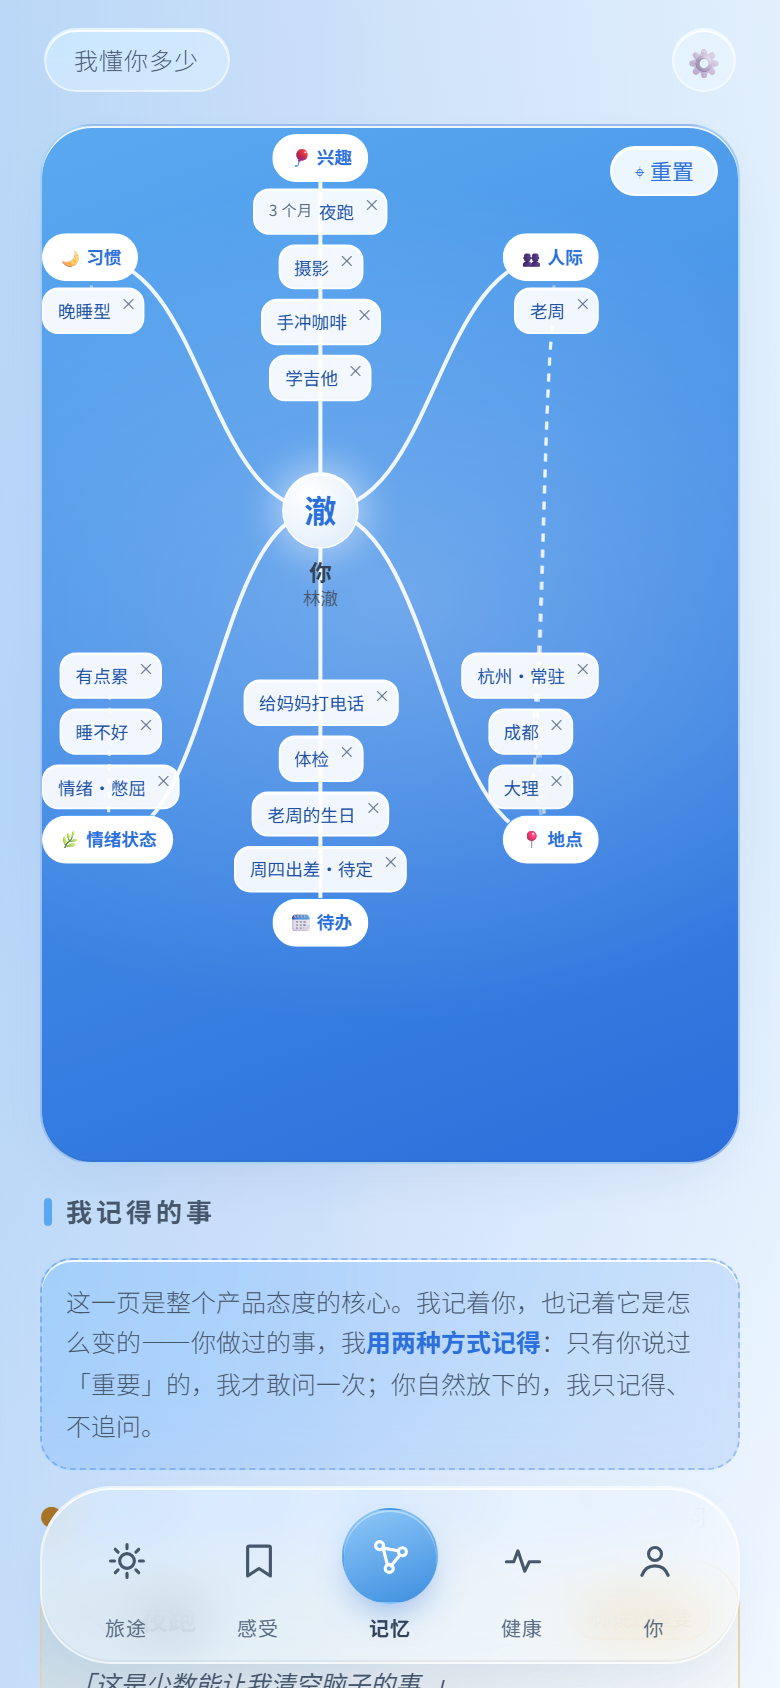
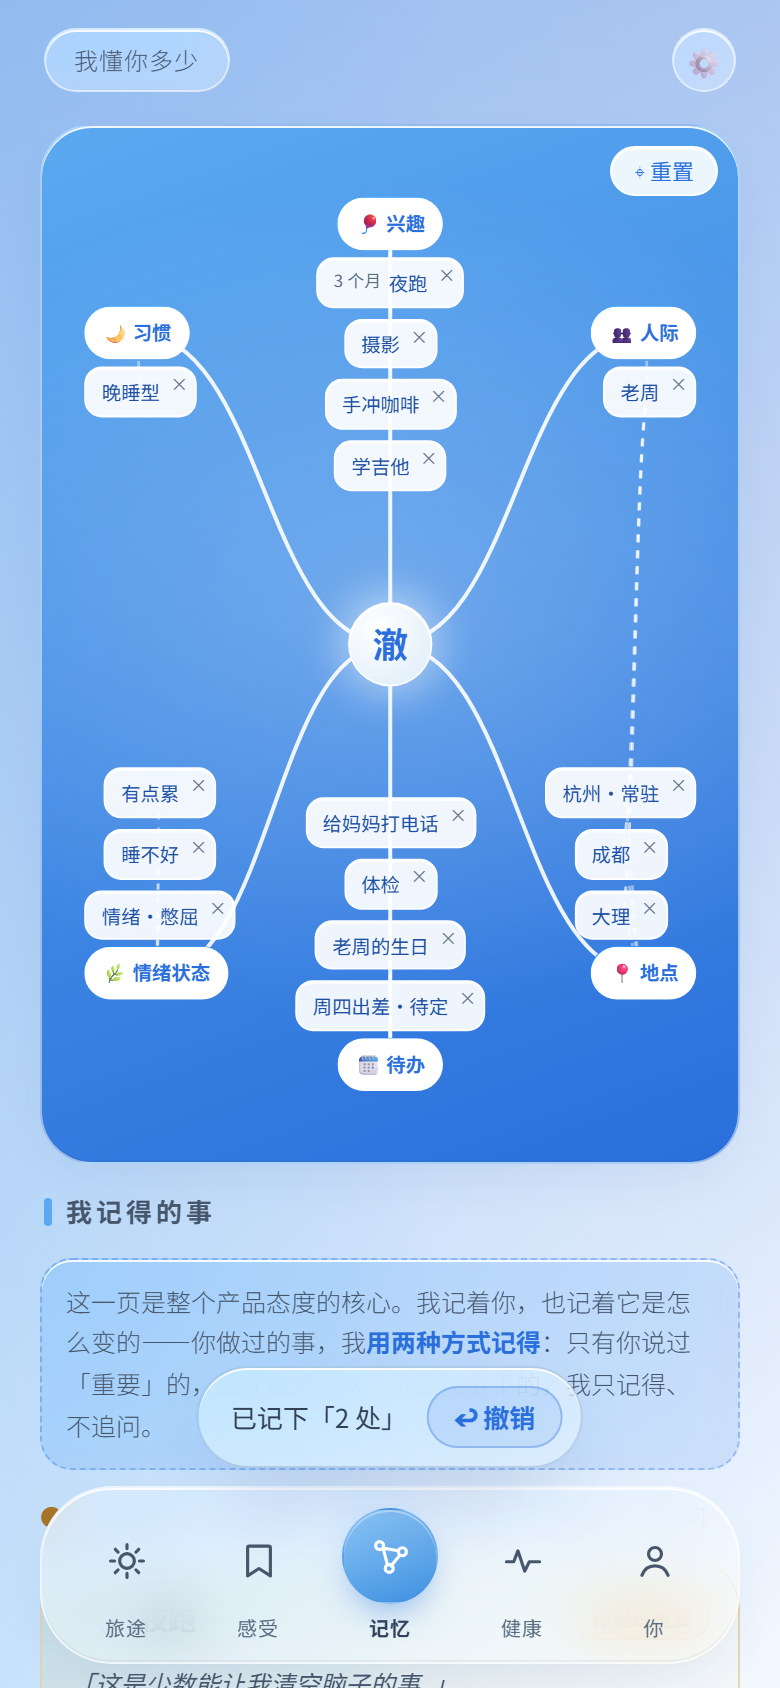
feat: 删导图中心文字 + 第一批 J 图标

diff --git a/prototype/index.html b/prototype/index.html
@@ -2159,6 +2159,10 @@
   .plus-txt{display:flex;flex-direction:column;line-height:1.3;}
   .plus-txt b{font-weight:500;}
   .plus-txt i{font-style:normal;font-size:10.5px;color:var(--text-faint);}
+  /* v109 · 内联图标（Phosphor Duotone, MIT） */
+  .ic-ico{display:inline-block;vertical-align:-0.16em;width:1em;height:1em;fill:currentColor;flex:none;}
+  .c-blue{color:#2A6FDB;} .c-sage{color:#3E8B63;} .c-amber{color:#BE8636;} .c-ink{color:var(--text-dim);}
+
   /* ==========================================================================
      v105 · 空闲态的输入框要看得出来是个可以点的地方
      原来浅色 .42 白底 + 白描边，贴在浅蓝背景上几乎隐形。
@@ -2691,7 +2695,7 @@
 
 
       <div class="demo-row" data-page-node-id="LQcwQyt3rwFp5x0qEIdFd4">
-        <button type="button" class="demo-quake" onclick="proactiveCare()" data-page-node-id="zExi2FC6QWyjCUshgwfeV7">🌅 今日简报</button>
+        <button type="button" class="demo-quake" onclick="proactiveCare()" data-page-node-id="zExi2FC6QWyjCUshgwfeV7"><svg class="ic-ico c-blue" viewBox="0 0 256 256" aria-hidden="true"><path d="M184,128a56,56,0,1,1-56-56A56,56,0,0,1,184,128Z" opacity="0.2"/><path d="M120,40V16a8,8,0,0,1,16,0V40a8,8,0,0,1-16,0Zm72,88a64,64,0,1,1-64-64A64.07,64.07,0,0,1,192,128Zm-16,0a48,48,0,1,0-48,48A48.05,48.05,0,0,0,176,128ZM58.34,69.66A8,8,0,0,0,69.66,58.34l-16-16A8,8,0,0,0,42.34,53.66Zm0,116.68-16,16a8,8,0,0,0,11.32,11.32l16-16a8,8,0,0,0-11.32-11.32ZM192,72a8,8,0,0,0,5.66-2.34l16-16a8,8,0,0,0-11.32-11.32l-16,16A8,8,0,0,0,192,72Zm5.66,114.34a8,8,0,0,0-11.32,11.32l16,16a8,8,0,0,0,11.32-11.32ZM48,128a8,8,0,0,0-8-8H16a8,8,0,0,0,0,16H40A8,8,0,0,0,48,128Zm80,80a8,8,0,0,0-8,8v24a8,8,0,0,0,16,0V216A8,8,0,0,0,128,208Zm112-88H216a8,8,0,0,0,0,16h24a8,8,0,0,0,0-16Z"/></svg> 今日简报</button>
         <button type="button" class="demo-quake" onclick="demoQuake()" data-page-node-id="WsgGvSq7pXZ1e52MYFPn3C">⚠ 模拟地震预警推送</button>
       </div>
 
@@ -2834,7 +2838,6 @@
           <svg class="mm-links" id="mmLinks" aria-hidden="true" data-page-node-id="jN5P5Oeg3Zpe4FXXEKa14l"></svg>
           <div class="mm-root" data-page-node-id="deMqlpxRJMGPlYGBIiaG03">
             <span class="mm-root-ico" id="mmAvatar" data-page-node-id="rQ8zWn3qNz5cmExlGBMZSc">澈</span>
-            <div class="mm-root-txt" data-page-node-id="MmY6Ycc4EA1eXZcfhGVgnN"><b data-page-node-id="Afq0kGq2xGEBu2iFVXI65l">你</b><span data-page-node-id="agyWH5xEoMS0DwW7fNwEBO">林澈</span></div>
           </div>
           <div class="mm-branches" data-page-node-id="KI1w5Fs9yBtLKIo8fNiIdt">
           <div class="mm-branch" data-cat="interest" data-page-node-id="bEB7iYluV5NgtECyXgWOiz">
@@ -4774,13 +4777,13 @@
 
   /* ---- 天气预报查询（出天气卡片无地震区 + 记住待定事） ---- */
   var FORECAST = [
-    {day:'周一', icon:'☀', temp:'24°', desc:'晴', hum:'45%', wind:'微风 2 级'},
-    {day:'周二', icon:'⛅', temp:'23°', desc:'多云', hum:'55%', wind:'东北风 2 级'},
-    {day:'周三', icon:'🌦', temp:'20°', desc:'小雨', hum:'82%', wind:'东风 3 级'},
-    {day:'周四', icon:'🌧', temp:'18°', desc:'中雨', hum:'88%', wind:'东风 4 级'},
-    {day:'周五', icon:'⛅', temp:'22°', desc:'多云', hum:'60%', wind:'东南风 2 级'},
-    {day:'周六', icon:'☀', temp:'25°', desc:'晴', hum:'48%', wind:'微风 2 级'},
-    {day:'周日', icon:'🌩', temp:'17°', desc:'雷阵雨', hum:'90%', wind:'南风 4 级'}
+    {day:'周一', icon:'sun', temp:'24°', desc:'晴', hum:'45%', wind:'微风 2 级'},
+    {day:'周二', icon:'partlycloudy', temp:'23°', desc:'多云', hum:'55%', wind:'东北风 2 级'},
+    {day:'周三', icon:'drizzle', temp:'20°', desc:'小雨', hum:'82%', wind:'东风 3 级'},
+    {day:'周四', icon:'rain', temp:'18°', desc:'中雨', hum:'88%', wind:'东风 4 级'},
+    {day:'周五', icon:'partlycloudy', temp:'22°', desc:'多云', hum:'60%', wind:'东南风 2 级'},
+    {day:'周六', icon:'sun', temp:'25°', desc:'晴', hum:'48%', wind:'微风 2 级'},
+    {day:'周日', icon:'thunder', temp:'17°', desc:'雷阵雨', hum:'90%', wind:'南风 4 级'}
   ];
   function extractDay(v){
     var m = v.match(/星期([一二三四五六日天])|周([一二三四五六日天])|礼拜([一二三四五六日天])/);
@@ -4820,7 +4823,7 @@
     var el = document.createElement('div');
     el.className = 'wx-card';
     el.innerHTML =
-      '<div class="wx-head"><span class="wx-icon">' + f.icon + '</span>' +
+      '<div class="wx-head">' + Icons.svg(f.icon, 'c-blue', 18) +
       '<div class="wx-info"><span class="wx-day">' + day + ' · 预报</span>' +
       '<span class="wx-desc">' + f.desc + '</span></div>' +
       '<span class="wx-temp">' + f.temp + '</span></div>' +
@@ -5348,7 +5351,7 @@
       greeting = hello + '今天看起来是安静的一天，我都在。';
     }
 
-    var html = '<div class="pro-head">🌅 今日简报</div><div class="pro-body">' + greeting + '</div>';
+    var html = '<div class="pro-head">' + Icons.svg('sun','c-blue') + ' 今日简报</div><div class="pro-body">' + greeting + '</div>';
 
     if(todos.length > 0){
       var show = todos.slice(0, 5);
@@ -5370,7 +5373,7 @@
       var care = tired
         ? '你最近有点累，今晚早点睡。别的都可以先放一放。'
         : '你最近在「身体的信号」里留了一些状态，我看见了，不催你。';
-      html += '<div class="brief-sec"><div class="brief-sec-t">🌿 关怀</div><div class="brief-item">' + care + '</div></div>';
+      html += '<div class="brief-sec"><div class="brief-sec-t">' + Icons.svg('briefCare','c-sage') + ' 关怀</div><div class="brief-item">' + care + '</div></div>';
     }
 
     /* v88：感恩练习——每天一件小事 */
@@ -6182,7 +6185,7 @@
           }
         }
         if(card && card.innerHTML){
-          store.messages.push({ id:uid(), who:'me', kind:'brief', html:card.innerHTML, text:'🌅 今日简报', at:Date.now() });
+          store.messages.push({ id:uid(), who:'me', kind:'brief', html:card.innerHTML, text:'今日简报', at:Date.now() });
           write('messages', store.messages);
         }
         justPushedBrief = true;
@@ -6815,7 +6818,9 @@
       var slot = root.querySelector('#gratSlot');
       var host = slot || root;
       var sec = el('div', 'brief-sec grat-sec');
-      sec.appendChild(el('div', 'brief-sec-t', '🌱 感激'));
+      var _ft = el('div', 'brief-sec-t');
+      _ft.innerHTML = Icons.svg('briefThanks','c-sage') + ' 感激';
+      sec.appendChild(_ft);
       sec.appendChild(el('div', 'brief-item', '今天有什么小事，值得你道一声谢？'));
 
       var row = el('div', 'grat-row');
@@ -7284,7 +7289,7 @@
       var text = weeklyText();
       if(!text){ return; }
       var p = PERSONAS[persona()];
-      pushArchiveCard('✉ 这一周 · 由「' + p.name + '」写给你', text, '周日晚上，我把它留在你这里。');
+      pushArchiveCard(Icons.svg('envelope','c-blue') + ' 这一周 · 由「' + p.name + '」写给你', text, '周日晚上，我把它留在你这里。');
       writeJSON(WEEKLY_KEY, { key: key, at: Date.now() });
     }
 
@@ -7356,7 +7361,7 @@
       var mark = readJSON('la.silenceShown', { at: 0 });
       if(now - (mark.at || 0) < 5 * 86400000) return;
       pushArchiveCard(
-        '🌙 缺席也记着',
+        Icons.svg('moon','c-blue') + ' 缺席也记着',
         '这 ' + gapDays + ' 天你来得少。我不问，也不催——但这段安静，我也记在档案里了。',
         '像人，不像打卡器。',
         'silence'
@@ -7508,7 +7513,9 @@
         var item = el('div', 'todo');
         item.setAttribute('data-id', t.id);
         item.style.animation = 'fade .3s ease';
-        item.appendChild(el('span', 'ico', t.ico || '🗓'));
+        var icoEl = el('span', 'ico');
+        icoEl.innerHTML = (window.Icons && Icons.has(t.ico)) ? Icons.svg(t.ico) : (t.ico || '');
+        item.appendChild(icoEl);
         var wrap = el('div', 't');
         wrap.appendChild(el('div', 'nm', t.nm || ''));
         wrap.appendChild(el('div', 'st', t.st || '你刚告诉我的'));
@@ -7525,7 +7532,7 @@
       var list = read();
       list.push({
         id: uid(),
-        ico: (opts && opts.ico) || '🗓',
+        ico: (opts && opts.ico) || 'briefTodo',
         nm: String(text),
         st: (opts && opts.st) || '你刚告诉我的',
         at: Date.now()
@@ -7899,7 +7906,7 @@
     }
     function sendToChat(){
       if(!clip) return;
-      var text = '🎤 语音 ' + fmt2(clip.ms);
+      var text = Icons.svg('microphone','c-sage') + ' 语音 ' + fmt2(clip.ms);
       if(typeof window.appendMsg === 'function'){ window.appendMsg('user', text); }
       else if(typeof appendMsg === 'function'){ appendMsg('user', text); }
       if(typeof window.sendChat === 'function' && window.__vnOnSend){ /* 由外部决定 */ }
@@ -8071,6 +8078,47 @@
     window.addEventListener('resize', function(){ setTimeout(run, 80); });
     if(document.readyState === 'loading'){ document.addEventListener('DOMContentLoaded', function(){ setTimeout(run, 200); }); }
     else { setTimeout(run, 200); }
+  })();
+
+  /* ==========================================================================
+     v109 · Icons：Phosphor Duotone（MIT）内联图标
+     去 emoji 后用这套。用户拍板的方案 J：按内容分色——
+       c-blue  #2A6FDB  天气 / 信 / 通话
+       c-sage  #3E8B63  身体 / 语音
+       c-amber #BE8636  生日 / 纪念
+     尺寸用 em，随字号缩放，替换 emoji 时布局零跳动。
+     ========================================================================== */
+  (function(){
+    var RAW = {
+    sun: { vb: '0 0 256 256', body: '<path d="M184,128a56,56,0,1,1-56-56A56,56,0,0,1,184,128Z" opacity="0.2"/><path d="M120,40V16a8,8,0,0,1,16,0V40a8,8,0,0,1-16,0Zm72,88a64,64,0,1,1-64-64A64.07,64.07,0,0,1,192,128Zm-16,0a48,48,0,1,0-48,48A48.05,48.05,0,0,0,176,128ZM58.34,69.66A8,8,0,0,0,69.66,58.34l-16-16A8,8,0,0,0,42.34,53.66Zm0,116.68-16,16a8,8,0,0,0,11.32,11.32l16-16a8,8,0,0,0-11.32-11.32ZM192,72a8,8,0,0,0,5.66-2.34l16-16a8,8,0,0,0-11.32-11.32l-16,16A8,8,0,0,0,192,72Zm5.66,114.34a8,8,0,0,0-11.32,11.32l16,16a8,8,0,0,0,11.32-11.32ZM48,128a8,8,0,0,0-8-8H16a8,8,0,0,0,0,16H40A8,8,0,0,0,48,128Zm80,80a8,8,0,0,0-8,8v24a8,8,0,0,0,16,0V216A8,8,0,0,0,128,208Zm112-88H216a8,8,0,0,0,0,16h24a8,8,0,0,0,0-16Z"/>' },
+    partlycloudy: { vb: '0 0 256 256', body: '<path d="M139.84,84.41v0a68.22,68.22,0,0,0-41.65,46v-.11a44.08,44.08,0,0,0-38.54,5h0a48,48,0,1,1,80.19-50.94Z" opacity="0.2"/><path d="M164,72a76.2,76.2,0,0,0-20.26,2.73,55.63,55.63,0,0,0-9.41-11.54l9.51-13.57a8,8,0,1,0-13.11-9.18L121.22,54A55.9,55.9,0,0,0,96,48c-.58,0-1.16,0-1.74,0L91.37,31.71a8,8,0,1,0-15.75,2.77L78.5,50.82A56.1,56.1,0,0,0,55.23,65.67L41.61,56.14a8,8,0,1,0-9.17,13.11L46,78.77A55.55,55.55,0,0,0,40,104c0,.57,0,1.15,0,1.72L23.71,108.6a8,8,0,0,0,1.38,15.88,8.24,8.24,0,0,0,1.39-.12l16.32-2.88a55.74,55.74,0,0,0,5.86,12.42A52,52,0,0,0,84,224h80a76,76,0,0,0,0-152ZM56,104a40,40,0,0,1,72.54-23.24,76.26,76.26,0,0,0-35.62,40,52.14,52.14,0,0,0-31,4.17A40,40,0,0,1,56,104ZM164,208H84a36,36,0,1,1,4.78-71.69c-.37,2.37-.63,4.79-.77,7.23a8,8,0,0,0,16,.92,58.91,58.91,0,0,1,1.88-11.81c0-.16.09-.32.12-.48A60.06,60.06,0,1,1,164,208Z"/>' },
+    overcast: { vb: '0 0 256 256', body: '<path d="M240,128a80,80,0,0,1-80,80H72A56,56,0,1,1,85.92,97.74l0,.1A80,80,0,0,1,240,128Z" opacity="0.2"/><path d="M160,40A88.09,88.09,0,0,0,81.29,88.67,64,64,0,1,0,72,216h88a88,88,0,0,0,0-176Zm0,160H72a48,48,0,0,1,0-96c1.1,0,2.2,0,3.29.11A88,88,0,0,0,72,128a8,8,0,0,0,16,0,72,72,0,1,1,72,72Z"/>' },
+    drizzle: { vb: '0 0 256 256', body: '<path d="M224,92a68,68,0,0,1-68,68H76A44,44,0,1,1,90.2,74.34v.11A68.06,68.06,0,0,1,224,92Z" opacity="0.2"/><path d="M158.66,196.44l-32,48a8,8,0,1,1-13.32-8.88l32-48a8,8,0,0,1,13.32,8.88ZM232,92a76.08,76.08,0,0,1-76,76H132.28l-29.62,44.44a8,8,0,1,1-13.32-8.88L113.05,168H76A52,52,0,0,1,76,64a53.26,53.26,0,0,1,8.92.76A76.08,76.08,0,0,1,232,92Zm-16,0A60.06,60.06,0,0,0,96,88.46a8,8,0,0,1-16-.92q.21-3.66.77-7.23A38.11,38.11,0,0,0,76,80a36,36,0,0,0,0,72h80A60.07,60.07,0,0,0,216,92Z"/>' },
+    rain: { vb: '0 0 256 256', body: '<path d="M224,92a68,68,0,0,1-68,68H76A44,44,0,1,1,90.2,74.34v.11A68.06,68.06,0,0,1,224,92Z" opacity="0.2"/><path d="M158.66,196.44l-32,48a8,8,0,1,1-13.32-8.88l32-48a8,8,0,0,1,13.32,8.88ZM232,92a76.08,76.08,0,0,1-76,76H132.28l-29.62,44.44a8,8,0,1,1-13.32-8.88L113.05,168H76A52,52,0,0,1,76,64a53.26,53.26,0,0,1,8.92.76A76.08,76.08,0,0,1,232,92Zm-16,0A60.06,60.06,0,0,0,96,88.46a8,8,0,0,1-16-.92q.21-3.66.77-7.23A38.11,38.11,0,0,0,76,80a36,36,0,0,0,0,72h80A60.07,60.07,0,0,0,216,92Z"/>' },
+    storm: { vb: '0 0 256 256', body: '<path d="M224,92a68,68,0,0,1-68,68H76A44,44,0,1,1,90.2,74.34v.11A68.06,68.06,0,0,1,224,92Z" opacity="0.2"/><path d="M156,16A76.2,76.2,0,0,0,84.92,64.76,53.26,53.26,0,0,0,76,64a52,52,0,0,0,0,104h37.87L97.14,195.88A8,8,0,0,0,104,208h25.87l-16.73,27.88a8,8,0,0,0,13.72,8.24l24-40A8,8,0,0,0,144,192H118.13l14.4-24H156a76,76,0,0,0,0-152Zm0,136H76a36,36,0,0,1,0-72,38.11,38.11,0,0,1,4.78.31q-.56,3.57-.77,7.23a8,8,0,0,0,16,.92A60.06,60.06,0,1,1,156,152Z"/>' },
+    thunder: { vb: '0 0 256 256', body: '<path d="M224,92a68,68,0,0,1-68,68H76A44,44,0,1,1,90.2,74.34v.11A68.06,68.06,0,0,1,224,92Z" opacity="0.2"/><path d="M156,16A76.2,76.2,0,0,0,84.92,64.76,53.26,53.26,0,0,0,76,64a52,52,0,0,0,0,104h37.87L97.14,195.88A8,8,0,0,0,104,208h25.87l-16.73,27.88a8,8,0,0,0,13.72,8.24l24-40A8,8,0,0,0,144,192H118.13l14.4-24H156a76,76,0,0,0,0-152Zm0,136H76a36,36,0,0,1,0-72,38.11,38.11,0,0,1,4.78.31q-.56,3.57-.77,7.23a8,8,0,0,0,16,.92A60.06,60.06,0,1,1,156,152Z"/>' },
+    snow: { vb: '0 0 256 256', body: '<path d="M224,92a68,68,0,0,1-68,68H76A44,44,0,1,1,90.2,74.34v.11A68.06,68.06,0,0,1,224,92Z" opacity="0.2"/><path d="M88,196a12,12,0,1,1-12-12A12,12,0,0,1,88,196Zm28,4a12,12,0,1,0,12,12A12,12,0,0,0,116,200Zm48-16a12,12,0,1,0,12,12A12,12,0,0,0,164,184ZM68,224a12,12,0,1,0,12,12A12,12,0,0,0,68,224Zm88,0a12,12,0,1,0,12,12A12,12,0,0,0,156,224ZM232,92a76.08,76.08,0,0,1-76,76H76A52,52,0,0,1,76,64a53.26,53.26,0,0,1,8.92.76A76.08,76.08,0,0,1,232,92Zm-16,0A60.06,60.06,0,0,0,96,88.46a8,8,0,0,1-16-.92q.21-3.66.77-7.23A38.11,38.11,0,0,0,76,80a36,36,0,0,0,0,72h80A60.07,60.07,0,0,0,216,92Z"/>' },
+    heavysnow: { vb: '0 0 256 256', body: '<path d="M220,128a92,92,0,1,1-92-92A92.1,92.1,0,0,1,220,128Z" opacity="0.2"/><path d="M223.77,150.09a8,8,0,0,1-5.86,9.68l-24.64,6,6.46,24.11a8,8,0,0,1-5.66,9.8A8.25,8.25,0,0,1,192,200a8,8,0,0,1-7.72-5.93l-7.72-28.8L136,141.86v46.83l21.66,21.65a8,8,0,0,1-11.32,11.32L128,203.31l-18.34,18.35a8,8,0,0,1-11.32-11.32L120,188.69V141.86L79.45,165.27l-7.72,28.8A8,8,0,0,1,64,200a8.25,8.25,0,0,1-2.08-.27,8,8,0,0,1-5.66-9.8l6.46-24.11-24.64-6a8,8,0,0,1,3.82-15.54l29.45,7.23L112,128,71.36,104.54l-29.45,7.23A7.85,7.85,0,0,1,40,112a8,8,0,0,1-1.91-15.77l24.64-6L56.27,66.07a8,8,0,0,1,15.46-4.14l7.72,28.8L120,114.14V67.31L98.34,45.66a8,8,0,0,1,11.32-11.32L128,52.69l18.34-18.35a8,8,0,0,1,11.32,11.32L136,67.31v46.83l40.55-23.41,7.72-28.8a8,8,0,0,1,15.46,4.14l-6.46,24.11,24.64,6A8,8,0,0,1,216,112a7.85,7.85,0,0,1-1.91-.23l-29.45-7.23L144,128l40.64,23.46,29.45-7.23A8,8,0,0,1,223.77,150.09Z"/>' },
+    fog: { vb: '0 0 256 256', body: '<path d="M224,100a68,68,0,0,1-68,68H76A44,44,0,1,1,90.2,82.34v.11A68.06,68.06,0,0,1,224,100Z" opacity="0.2"/><path d="M120,208H72a8,8,0,0,1,0-16h48a8,8,0,0,1,0,16Zm64-16H160a8,8,0,0,0,0,16h24a8,8,0,0,0,0-16Zm-24,32H104a8,8,0,0,0,0,16h56a8,8,0,0,0,0-16Zm72-124a76.08,76.08,0,0,1-76,76H76A52,52,0,0,1,76,72a53.26,53.26,0,0,1,8.92.76A76.08,76.08,0,0,1,232,100Zm-16,0A60.06,60.06,0,0,0,96,96.46a8,8,0,0,1-16-.92q.21-3.66.77-7.23A38.11,38.11,0,0,0,76,88a36,36,0,0,0,0,72h80A60.07,60.07,0,0,0,216,100Z"/>' },
+    phone: { vb: '0 0 256 256', body: '<path d="M223.94,174.08A48.33,48.33,0,0,1,176,216,136,136,0,0,1,40,80,48.33,48.33,0,0,1,81.92,32.06a8,8,0,0,1,8.3,4.8l21.13,47.2a8,8,0,0,1-.66,7.53L89.32,117a7.93,7.93,0,0,0-.54,7.81c8.27,16.93,25.77,34.22,42.75,42.41a7.92,7.92,0,0,0,7.83-.59l25-21.3a8,8,0,0,1,7.59-.69l47.16,21.13A8,8,0,0,1,223.94,174.08Z" opacity="0.2"/><path d="M222.37,158.46l-47.11-21.11-.13-.06a16,16,0,0,0-15.17,1.4,8.12,8.12,0,0,0-.75.56L134.87,160c-15.42-7.49-31.34-23.29-38.83-38.51l20.78-24.71c.2-.25.39-.5.57-.77a16,16,0,0,0,1.32-15.06l0-.12L97.54,33.64a16,16,0,0,0-16.62-9.52A56.26,56.26,0,0,0,32,80c0,79.4,64.6,144,144,144a56.26,56.26,0,0,0,55.88-48.92A16,16,0,0,0,222.37,158.46ZM176,208A128.14,128.14,0,0,1,48,80,40.2,40.2,0,0,1,82.87,40a.61.61,0,0,0,0,.12l21,47L83.2,111.86a6.13,6.13,0,0,0-.57.77,16,16,0,0,0-1,15.7c9.06,18.53,27.73,37.06,46.46,46.11a16,16,0,0,0,15.75-1.14,8.44,8.44,0,0,0,.74-.56L168.89,152l47,21.05h0s.08,0,.11,0A40.21,40.21,0,0,1,176,208Z"/>' },
+    checkup: { vb: '0 0 256 256', body: '<path d="M224,72V200a8,8,0,0,1-8,8H40a8,8,0,0,1-8-8V72a8,8,0,0,1,8-8H216A8,8,0,0,1,224,72Z" opacity="0.2"/><path d="M216,56H176V48a24,24,0,0,0-24-24H104A24,24,0,0,0,80,48v8H40A16,16,0,0,0,24,72V200a16,16,0,0,0,16,16H216a16,16,0,0,0,16-16V72A16,16,0,0,0,216,56ZM96,48a8,8,0,0,1,8-8h48a8,8,0,0,1,8,8v8H96ZM216,200H40V72H216V200Zm-56-64a8,8,0,0,1-8,8H136v16a8,8,0,0,1-16,0V144H104a8,8,0,0,1,0-16h16V112a8,8,0,0,1,16,0v16h16A8,8,0,0,1,160,136Z"/>' },
+    gift: { vb: '0 0 256 256', body: '<path d="M208,128v72a8,8,0,0,1-8,8H56a8,8,0,0,1-8-8V128Z" opacity="0.2"/><path d="M216,72H180.92c.39-.33.79-.65,1.17-1A29.53,29.53,0,0,0,192,49.57,32.62,32.62,0,0,0,158.44,16,29.53,29.53,0,0,0,137,25.91a54.94,54.94,0,0,0-9,14.48,54.94,54.94,0,0,0-9-14.48A29.53,29.53,0,0,0,97.56,16,32.62,32.62,0,0,0,64,49.57,29.53,29.53,0,0,0,73.91,71c.38.33.78.65,1.17,1H40A16,16,0,0,0,24,88v32a16,16,0,0,0,16,16v64a16,16,0,0,0,16,16H200a16,16,0,0,0,16-16V136a16,16,0,0,0,16-16V88A16,16,0,0,0,216,72ZM149,36.51a13.69,13.69,0,0,1,10-4.5h.49A16.62,16.62,0,0,1,176,49.08a13.69,13.69,0,0,1-4.5,10c-9.49,8.4-25.24,11.36-35,12.4C137.7,60.89,141,45.5,149,36.51Zm-64.09.36A16.63,16.63,0,0,1,96.59,32h.49a13.69,13.69,0,0,1,10,4.5c8.39,9.48,11.35,25.2,12.39,34.92-9.72-1-25.44-4-34.92-12.39a13.69,13.69,0,0,1-4.5-10A16.6,16.6,0,0,1,84.87,36.87ZM40,88h80v32H40Zm16,48h64v64H56Zm144,64H136V136h64Zm16-80H136V88h80v32Z"/>' },
+    briefTodo: { vb: '0 0 256 256', body: '<path d="M216,64V192H128V64Z" opacity="0.2"/><path d="M224,128a8,8,0,0,1-8,8H128a8,8,0,0,1,0-16h88A8,8,0,0,1,224,128ZM128,72h88a8,8,0,0,0,0-16H128a8,8,0,0,0,0,16Zm88,112H128a8,8,0,0,0,0,16h88a8,8,0,0,0,0-16ZM82.34,42.34,56,68.69,45.66,58.34A8,8,0,0,0,34.34,69.66l16,16a8,8,0,0,0,11.32,0l32-32A8,8,0,0,0,82.34,42.34Zm0,64L56,132.69,45.66,122.34a8,8,0,0,0-11.32,11.32l16,16a8,8,0,0,0,11.32,0l32-32a8,8,0,0,0-11.32-11.32Zm0,64L56,196.69,45.66,186.34a8,8,0,0,0-11.32,11.32l16,16a8,8,0,0,0,11.32,0l32-32a8,8,0,0,0-11.32-11.32Z"/>' },
+    briefCare: { vb: '0 0 256 256', body: '<path d="M232,102c0,66-104,122-104,122S24,168,24,102A54,54,0,0,1,78,48c22.59,0,41.94,12.31,50,32,8.06-19.69,27.41-32,50-32A54,54,0,0,1,232,102Z" opacity="0.2"/><path d="M178,40c-20.65,0-38.73,8.88-50,23.89C116.73,48.88,98.65,40,78,40a62.07,62.07,0,0,0-62,62c0,70,103.79,126.66,108.21,129a8,8,0,0,0,7.58,0C136.21,228.66,240,172,240,102A62.07,62.07,0,0,0,178,40ZM128,214.8C109.74,204.16,32,155.69,32,102A46.06,46.06,0,0,1,78,56c19.45,0,35.78,10.36,42.6,27a8,8,0,0,0,14.8,0c6.82-16.67,23.15-27,42.6-27a46.06,46.06,0,0,1,46,46C224,155.61,146.24,204.15,128,214.8Z"/>' },
+    briefThanks: { vb: '0 0 256 256', body: '<path d="M138.54,149.46C106.62,96.25,149.18,43.05,239.63,48.37,245,138.82,191.75,181.39,138.54,149.46ZM16.26,88.26c-3.8,64.61,34.21,95,72.21,72.21C111.27,122.47,80.87,84.46,16.26,88.26Z" opacity="0.2"/><path d="M247.63,47.89a8,8,0,0,0-7.52-7.52c-51.76-3-93.32,12.74-111.18,42.22-11.8,19.48-11.78,43.16-.16,65.74a71.37,71.37,0,0,0-14.17,26.95L98.33,159c7.82-16.33,7.52-33.36-1-47.49C84.09,89.73,53.62,78,15.79,80.27a8,8,0,0,0-7.52,7.52c-2.23,37.83,9.46,68.3,31.25,81.5A45.82,45.82,0,0,0,63.44,176,54.58,54.58,0,0,0,87,170.33l25,25V224a8,8,0,0,0,16,0V194.51a55.61,55.61,0,0,1,12.27-35,73.91,73.91,0,0,0,33.31,8.4,60.9,60.9,0,0,0,31.83-8.86C234.89,141.21,250.67,99.65,247.63,47.89ZM86.06,146.74l-24.41-24.4a8,8,0,0,0-11.31,11.31l24.41,24.41c-9.61,3.18-18.93,2.39-26.94-2.46C32.47,146.31,23.79,124.32,24,96c28.31-.25,50.31,8.47,59.6,23.81C88.45,127.82,89.24,137.14,86.06,146.74Zm111.06-1.36c-13.4,8.11-29.15,8.73-45.15,2l53.69-53.7a8,8,0,0,0-11.31-11.32L140.65,136c-6.76-16-6.15-31.76,2-45.15,13.94-23,47-35.8,89.33-34.83C232.94,98.34,220.14,131.44,197.12,145.38Z"/>' },
+    weekly: { vb: '0 0 256 256', body: '<path d="M224,56l-96,88L32,56Z" opacity="0.2"/><path d="M224,48H32a8,8,0,0,0-8,8V192a16,16,0,0,0,16,16H216a16,16,0,0,0,16-16V56A8,8,0,0,0,224,48Zm-96,85.15L52.57,64H203.43ZM98.71,128,40,181.81V74.19Zm11.84,10.85,12,11.05a8,8,0,0,0,10.82,0l12-11.05,58,53.15H52.57ZM157.29,128,216,74.18V181.82Z"/>' },
+    silence: { vb: '0 0 256 256', body: '<path d="M227.89,147.89A96,96,0,1,1,108.11,28.11,96.09,96.09,0,0,0,227.89,147.89Z" opacity="0.2"/><path d="M233.54,142.23a8,8,0,0,0-8-2,88.08,88.08,0,0,1-109.8-109.8,8,8,0,0,0-10-10,104.84,104.84,0,0,0-52.91,37A104,104,0,0,0,136,224a103.09,103.09,0,0,0,62.52-20.88,104.84,104.84,0,0,0,37-52.91A8,8,0,0,0,233.54,142.23ZM188.9,190.34A88,88,0,0,1,65.66,67.11a89,89,0,0,1,31.4-26A106,106,0,0,0,96,56,104.11,104.11,0,0,0,200,160a106,106,0,0,0,14.92-1.06A89,89,0,0,1,188.9,190.34Z"/>' },
+    voice: { vb: '0 0 256 256', body: '<path d="M168,64v64a40,40,0,0,1-40,40h0a40,40,0,0,1-40-40V64a40,40,0,0,1,40-40h0A40,40,0,0,1,168,64Z" opacity="0.2"/><path d="M128,176a48.05,48.05,0,0,0,48-48V64a48,48,0,0,0-96,0v64A48.05,48.05,0,0,0,128,176ZM96,64a32,32,0,0,1,64,0v64a32,32,0,0,1-64,0Zm40,143.6V240a8,8,0,0,1-16,0V207.6A80.11,80.11,0,0,1,48,128a8,8,0,0,1,16,0,64,64,0,0,0,128,0,8,8,0,0,1,16,0A80.11,80.11,0,0,1,136,207.6Z"/>' },
+    empty: { vb: '0 0 256 256', body: '<path d="M224,128A96,96,0,0,1,79.93,211.11h0L42.54,223.58a8,8,0,0,1-10.12-10.12l12.47-37.39h0A96,96,0,1,1,224,128Z" opacity="0.2"/><path d="M128,24A104,104,0,0,0,36.18,176.88L24.83,210.93a16,16,0,0,0,20.24,20.24l34.05-11.35A104,104,0,1,0,128,24Zm0,192a87.87,87.87,0,0,1-44.06-11.81,8,8,0,0,0-6.54-.67L40,216,52.47,178.6a8,8,0,0,0-.66-6.54A88,88,0,1,1,128,216Z"/>' },
+    hail: { vb: '0 0 256 256', body: '<path d="M220,128a92,92,0,1,1-92-92A92.1,92.1,0,0,1,220,128Z" opacity="0.2"/><path d="M223.77,150.09a8,8,0,0,1-5.86,9.68l-24.64,6,6.46,24.11a8,8,0,0,1-5.66,9.8A8.25,8.25,0,0,1,192,200a8,8,0,0,1-7.72-5.93l-7.72-28.8L136,141.86v46.83l21.66,21.65a8,8,0,0,1-11.32,11.32L128,203.31l-18.34,18.35a8,8,0,0,1-11.32-11.32L120,188.69V141.86L79.45,165.27l-7.72,28.8A8,8,0,0,1,64,200a8.25,8.25,0,0,1-2.08-.27,8,8,0,0,1-5.66-9.8l6.46-24.11-24.64-6a8,8,0,0,1,3.82-15.54l29.45,7.23L112,128,71.36,104.54l-29.45,7.23A7.85,7.85,0,0,1,40,112a8,8,0,0,1-1.91-15.77l24.64-6L56.27,66.07a8,8,0,0,1,15.46-4.14l7.72,28.8L120,114.14V67.31L98.34,45.66a8,8,0,0,1,11.32-11.32L128,52.69l18.34-18.35a8,8,0,0,1,11.32,11.32L136,67.31v46.83l40.55-23.41,7.72-28.8a8,8,0,0,1,15.46,4.14l-6.46,24.11,24.64,6A8,8,0,0,1,216,112a7.85,7.85,0,0,1-1.91-.23l-29.45-7.23L144,128l40.64,23.46,29.45-7.23A8,8,0,0,1,223.77,150.09Z"/>' }
+    };
+    function svg(key, cls, size){
+      var it = RAW[key];
+      if(!it) return '';
+      var st = size ? 'width:" + size + "px;height:' + size + 'px;' : 'width:1em;height:1em;';
+      return '<svg class="ic-ico ' + (cls || 'c-blue') + '" viewBox="' + it.vb + '" aria-hidden="true" style="' + (size ? 'width:' + size + 'px;height:' + size + 'px;' : '') + '">' + it.body + '</svg>';
+    }
+    window.Icons = { svg: svg, has: function(k){ return !!RAW[k]; } };
   })();
 
 </script>
